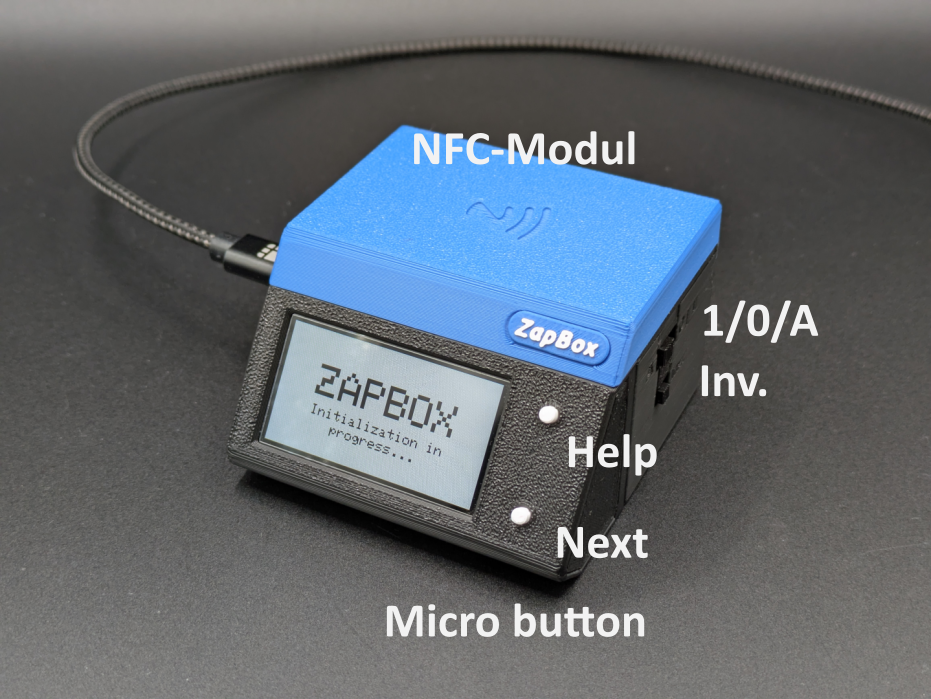
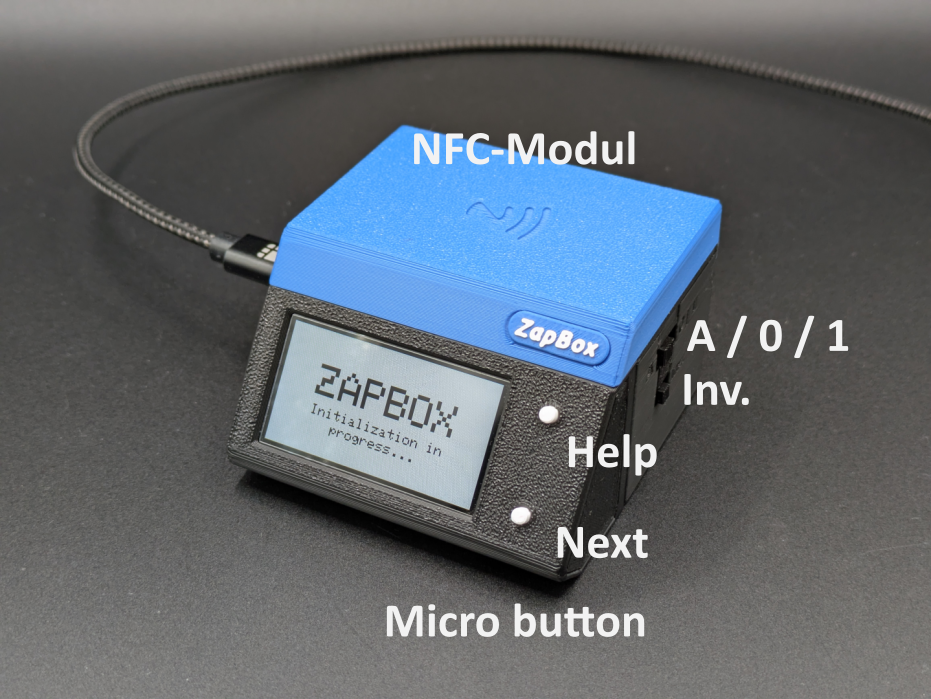
Update oi compact picture

Changed region(s): [[0.7164, 0.4206, 0.9033, 0.6009]]

diff --git a/assets/operating-instructions/Compact-oi94011x-de.md b/assets/operating-instructions/Compact-oi94011x-de.md
@@ -1,0 +1,177 @@
+# ZapBox Comact – Bedienungsanleitung
+
+**Sprache:** Deutsch | **Version:** OI940117
+
+---
+
+## Übersicht
+
+Die **ZapBox Compact** ist ein elektronischer Schalter für Bitcoin-Lightning-Zahlungen. Mit einer Zahlung über das Lightning-Netzwerk lässt sich ein Ausgang schalten – ideal für Automaten, Präsentationen, Eventsteuerung und viele weitere Anwendungen.
+
+### Grundausstattung
+
+| Komponente | Beschreibung |
+|---|---|
+| Mikrocontroller | T-Display-S3 mit 1,9" LCD-Display |
+| Frontpanel | Wahlweise mit 35° oder 90° Display Front (90° auch zum Einbau erhältlich) |
+| Eingang | USB-C (Power IN) |
+| Ausgang | USB-A Buchse |
+| Bedienelement | Zwei On-board-Mikrotaster |
+| Schalter 1 | 3-poliger Schiebeschalter (AUTO / OFF / ON) |
+| Schalter 2 | 2-poliger Schiebeschalter (Invert Output) |
+| Option BTC-Ticker | Aktivierbar über den Web Installer |
+| Option NFC-Modul | Für Bolt Cards (NTAG424 DNA) und Standard NTAG213/215/216 (mit LNURL-withdraw) |
+
+---
+
+## Ansichten
+
+<img src="pic-Compact/Compact-oi-01.webp" alt="Frontansicht" width="67%">
+
+*Bild 1: Frontansicht*
+
+<img src="pic-Compact/Compact-oi-02.webp" alt="Rückansicht" width="67%">
+
+*Bild 2: Rückansicht*
+
+---
+
+## Inbetriebnahme
+
+### Stromversorgung
+
+Versorgen Sie das Gerät über den Anschluss **Power IN** mit einem USB-C-Kabel mit **5 V DC (max. 5 A)**.
+
+> **Hinweis:** Der Power-IN-Anschluss ist nicht „intelligent". Einige Ladegeräte oder Powermodule mit USB-C-Ausgang erkennen die ZapBox nicht und liefern keinen Strom. Verwenden Sie in diesem Fall einen **USB-A-Ausgang** der Spannungsversorgung oder eine andere Stromquelle.
+
+### Erster Test (vorkonfiguriertes Gerät)
+
+Ist das Gerät bereits konfiguriert, können Sie sofort einen ersten Test durchführen:
+
+1. Drücken Sie den **NEXT**, um zwischen den Display-Seiten zu wechseln.
+2. Scannen Sie mit einem Lightning-Wallet den angezeigten **QR-Code**.
+3. Bezahlen Sie die Invoice.
+4. Das Relais sollte hörbar schalten – der Schaltvorgang war erfolgreich.
+
+---
+
+## Einrichtung
+
+### Web-Installer
+
+Zur Ersteinrichtung und Firmware-Aktualisierung steht der **Web-Installer** zur Verfügung:
+
+**https://installer.zapbox.space/**
+
+Der vollständige Ablauf ist dort beschrieben. Es wird empfohlen, stets die **„Latest"-Firmware** zu flashen, um die ZapBox auf dem neuesten Stand zu halten.
+
+### USB-Datenzugang (versteckte Klappe)
+
+Um Daten vom Gerät zu lesen oder zu übertragen, verbinden Sie die ZapBox mit einem Computer oder Laptop:
+
+1. An der **rechten Seite der Frontblende** befindet sich eine kleine, verdeckte Klappe.
+2. Öffnen Sie die Klappe, indem Sie von unten mit einem **schmalen Schraubendreher** die Klappe nach rechts wegschieben.
+3. Schließen Sie ein USB-C-Kabel am darunter liegenden Anschluss des Mikrocontrollers an.
+
+<img src="pic-Compact/Compact-oi-03.webp" alt="Panel öffnen und USB-C-Anschluss" width="67%">
+
+*Bild: Panel öffnen und USB-C-Anschluss für Daten*
+
+> **Wichtiger Hinweis:** Der USB-Anschluss direkt am Mikrocontroller dient ausschließlich zum Flashen neuer Firmware oder zur Übertragung von Konfigurationsparametern. Wenn während des Flashens gleichzeitig Schaltfunktionen ausgelöst werden, kann es zu **Fehlfunktionen oder Beschädigungen des Mikrocontrollers** kommen.
+>
+> Es wird daher empfohlen:
+> - Während des Flashens keine Schaltfunktionen auszulösen, **oder**
+> - den regulären **Power-IN-Eingang** zusätzlich an dieselbe Spannungsversorgung anzuschließen, damit der Strom für das Leistungsrelais nicht über den Mikrocontroller fließt und diesen überlastet.
+
+---
+
+## Schiebeschalter
+
+Die ZapBox Compact verfügt über zwei Schiebeschalter.
+
+### Schalter 1 – Dreifach-Schiebeschalter (AUTO / OFF / ON)
+
+| Stellung | Funktion |
+|---|---|
+| **A** (AUTO) | Automatikbetrieb – Normalbetrieb |
+| **0** (OFF) | Spannungsversorgung unterbrochen – Ausgang AUS |
+| **1** (ON) | Ausgang dauerhaft EIN |
+
+### Schalter 2 – Zweifach-Schiebeschalter (Invert / Normal)
+
+| Stellung | Funktion |
+|---|---|
+| **Normal** | Der Ausgang ist Ruhezustand spannungslos (0 V). Nach dem Schaltvorgang liegt 5 V an den USB-Buchsen an. |
+| **Inv.** (Invert) | Der Ausgang liegt im Ruhezustand auf 5 V. Nach dem Schaltvorgang wechselt der Ausgang auf 0 V (inverses Schalten). |
+
+> **Hinweis:** Befindet sich der Zweifach-Schalter auf **Inv.** und der Dreifach-Schalter auf **Stellung 1**, ist der Ausgang – anders als im Normalbetrieb – **AUS** statt EIN.
+
+---
+
+## Ausgang: USB-A-Buchse
+
+Die USB-Buchse wird über einen Relais-Schaltkontakt geschaltet. Die **Gesamtbelastung** der Buchsen sollte **3 A nicht überschreiten**.
+
+---
+
+## NFC-Modul (optional)
+
+Je nach Ausstattung ist auf der **Oberseite der ZapBox** ein NFC-Modul verbaut. Es unterstützt folgende Kartentypen:
+
+- **Boltcards** (NTAG424)
+- **LNURL-Withdraw** von NTAG21x (213 / 215 / 216)
+
+---
+
+## Bedienelemente
+
+Die ZapBox verfügt über zwei kleine **On-board-Mikrotaster**, die direkt mit dem Mikrocontroller verbunden sind. Alle Funktionen sind über die Mikrotaster erreichbar. Die ZapBox hat an der Unterseite auch einen Reset Taster.
+
+### Funktionsübersicht
+
+| Funktion | Mikrotaster |
+|---|---|
+| Hilfe-Seite anzeigen | 1× HELP drücken | 
+| Nächste Seite / Produktwechsel | 1× NEXT drücken |
+| REPORT-Seite anzeigen | 2× HELP drücken | 
+| Config-Modus aufrufen | NEXT mind. 5 Sek. gedrückt halten |
+
+---
+
+## Technische Daten
+
+| Eigenschaft | Wert |
+|---|---|
+| Versorgungsspannung | 5 V DC über USB-C |
+| Maximaler Eingangsstrom | 3,5 A |
+| Ausgangsleistung | max. 3,0 A |
+| Display | 1,9" LCD (T-Display-S3) |
+| Kommunikation | Wi-Fi (ESP32-S3) |
+| Zahlungsprotokoll | Bitcoin Lightning Network |
+
+---
+
+## Sicherheitshinweise
+
+- Betreiben Sie das Gerät ausschließlich mit der angegebenen Versorgungsspannung.
+- Überschreiten Sie nicht die maximalen Strombelastungen der Ausgänge.
+- Führen Sie keine Arbeiten an den Relaiskontakten unter Last durch.
+- Das Gerät ist nicht für den Einsatz in feuchten oder nassen Umgebungen geeignet.
+- Außerhalb der Reichweite von Kindern aufbewahren.
+
+---
+
+---
+
+## Weiterführende Links
+
+| Ressource | Link |
+|---|---|
+| Übersicht aller ZapBox-Modelle | https://zapbox.space/ |
+| Web-Installer, Kurzübersicht & Fehlerbehebung | https://installer.zapbox.space/ |
+| Detaillierte Dokumentation (Parameter & Funktionen) | https://ereignishorizont.xyz/zapbox/ |
+| GitHub-Repository (Software, E-Layouts, 3D-Druckdateien) | https://github.com/AxelHamburch/ZapBox |
+
+---
+
+*Änderungen und Irrtümer vorbehalten. Stand: 2026*
